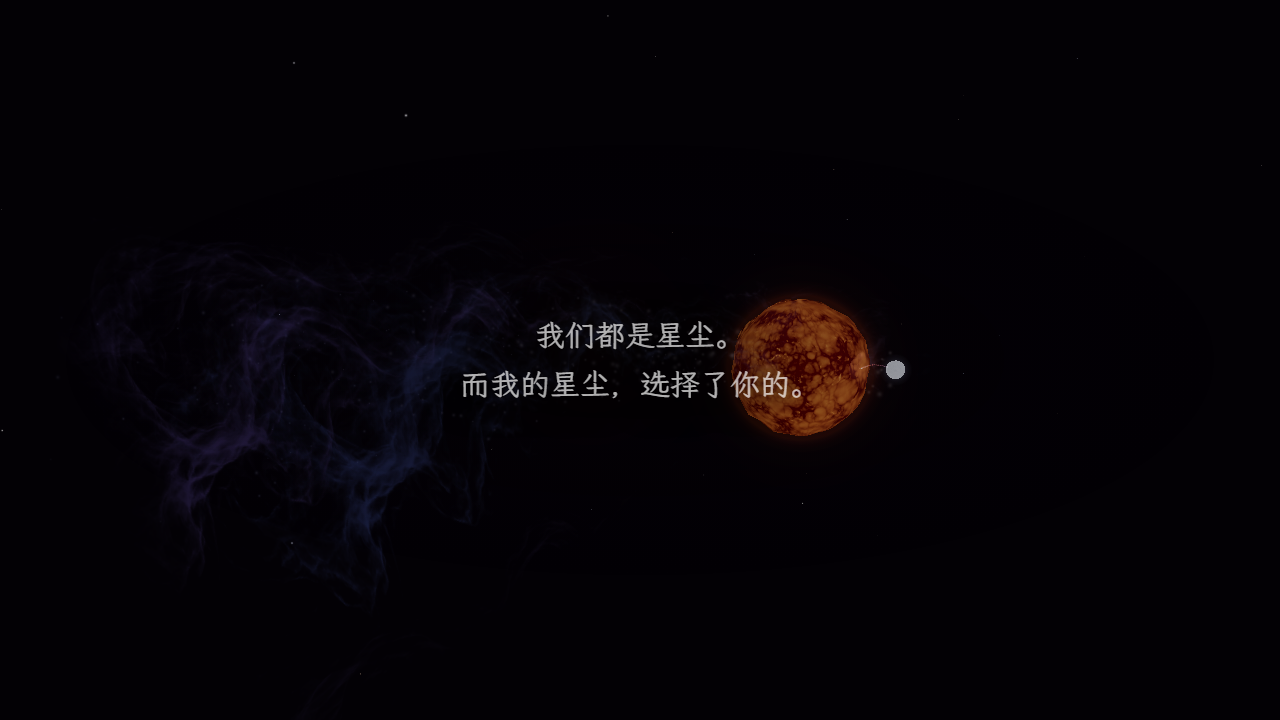
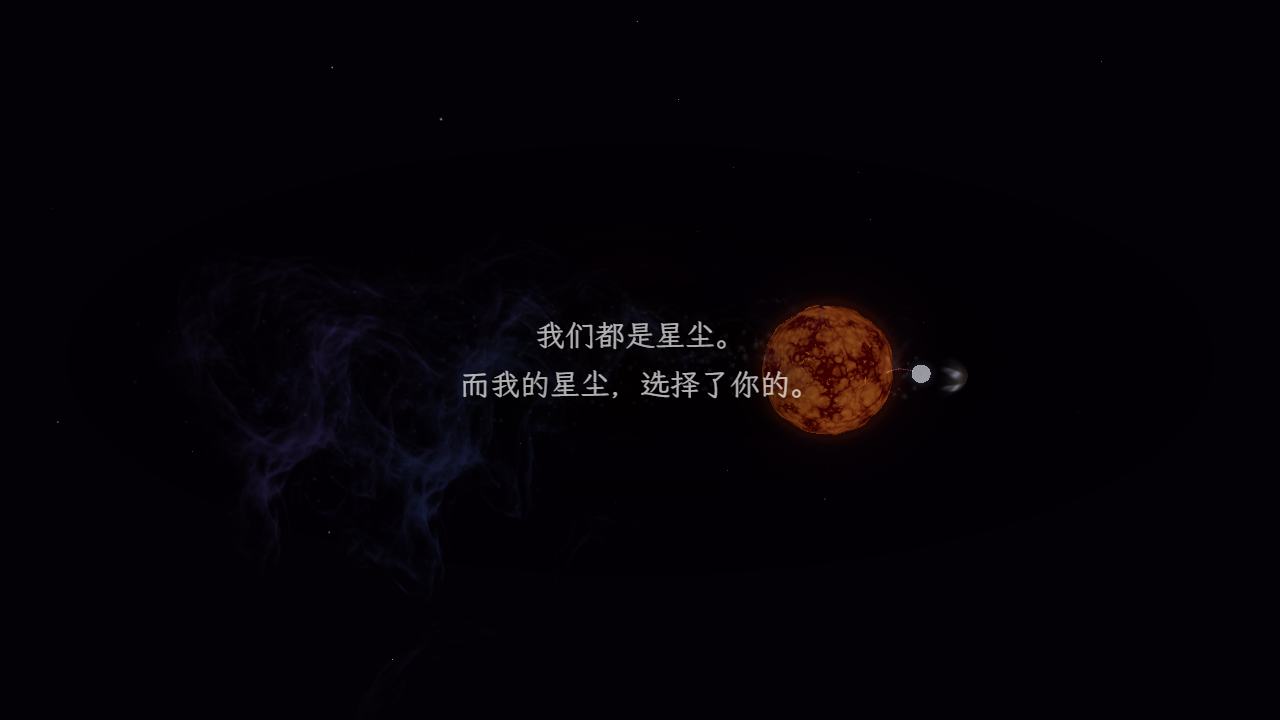
Deepen the closing look-at bias so the epilogue clears the red giant (#115)
At the real 60s idle the closing flight has landed and 共同前行 has carried
the pair ~2.4 units down the 去向, and against that settled composition the
wider English epilogue line sat on the giant's ×1.4 disc by ~14px. Deepen
CAMERA.CLOSING's look-at bias (-8 → -9.5, landscape only) so both languages'
text boxes clear the disc; portrait already separated on the y axis and keeps
its own pose.

tests/e2e/closing-framing.spec.ts re-verifies the clearance at the REAL idle
timing (no ?idle-* compression, 180s budget): the epilogue text box vs the
live data-mira-a-screen probe + screenDiscRadiusPercent disc, desktop
1440×900 and 390×844, both languages, with the pure seam cross-checked
against the probe. docs/evidence-115/ holds the before/after captures and
the measured numbers.

diff --git a/tests/e2e/closing-framing.spec.ts b/tests/e2e/closing-framing.spec.ts
@@ -1,0 +1,162 @@
+import { test, expect } from '@playwright/test';
+import type { Page } from '@playwright/test';
+import { CAMERA, PORTRAIT_CAMERA } from '../../src/constants/animation';
+import { PHYSICS, calculateOrbitalPosition } from '../../src/constants/physics';
+import { PORTRAIT_TILT, projectToScreenPercent, screenDiscRadiusPercent } from '../../src/lib/portraitFraming';
+import { sharedJourney } from '../../src/lib/sharedJourney';
+import { tailHeading } from '../../src/lib/tailPath';
+import { MID_DECLINE_EPOCH } from './helpers';
+
+// 结语不压红巨星 (#115): the epilogue re-verified at the REAL idle timing — no
+// ?idle-* overrides anywhere in these URLs. The compressed review round watched
+// 「…选择了你的。」 arrive with a 0.8s lead, but the closing flight's 8s budget
+// (TRANSITIONS.CLOSING_CAMERA) never compresses: the line showed while the camera
+// had barely left the explore framing. At the real 60s the flight has landed and
+// 共同前行 has carried the pair ~2.4 units down the 去向 — a different composition
+// than the one the review screenshot saw, so it is measured, not assumed.
+//
+// The standard is the one the 顶栏 / 终幕标题 clearance proofs already use: the
+// live screen probe (data-mira-a-screen) for the giant's centre, and the pure
+// seam's disc radius at ×1.4 of the photosphere (photosphere + dense atmosphere).
+// 字不压星, both languages, desktop and the 390×844 竖屏长卷.
+
+// The real rules from lib/viewerControl: 30s resume, 3s ramp, 60s epilogue, 8s
+// lead. The settle read below adds the line's 0.8s enter on top of the 60s.
+const EPILOGUE_WAIT_MS = 75_000;
+const SETTLE_MS = 2000;
+
+const HEADING = tailHeading(PHYSICS.TAIL.length);
+
+// The giant's journey-frame home once the ride has effectively arrived: 60s of
+// idle is four times the journey's 15s timescale, and travel(75) vs travel(150)
+// differ by well under a pixel on screen, so the converged phase is honest for
+// the disc's depth. The orbit's ±0.1 wobble rides on top as slack, sampled live.
+const RIDE = sharedJourney(75, HEADING);
+const HOME_ORBIT = calculateOrbitalPosition(0, PHYSICS.ORBIT).primary;
+const GIANT_JOURNEY_FRAME = [
+  RIDE.base[0] + RIDE.primary[0] + HOME_ORBIT[0],
+  RIDE.base[1] + RIDE.primary[1] + HOME_ORBIT[1],
+  RIDE.base[2] + RIDE.primary[2] + HOME_ORBIT[2],
+] as const;
+
+interface ClearanceRead {
+  // Worst sampled gap on each axis, px; negative = overlap depth.
+  gapX: number;
+  gapY: number;
+}
+
+async function readClearance(page: Page, language: 'ch' | 'en', screenshot: string): Promise<ClearanceRead> {
+  const canvas = page.locator('canvas');
+  const canvasBox = await canvas.boundingBox();
+  expect(canvasBox, 'canvas has a box').toBeTruthy();
+
+  // The settled framing, derived from the stored pose so a retune moves both
+  // together: the closing flight parks the camera exactly on CLOSING (fov fitting
+  // never moves the position).
+  const portrait = canvasBox.height > canvasBox.width;
+  const pose = (portrait ? PORTRAIT_CAMERA : CAMERA).CLOSING;
+  await expect(canvas).toHaveAttribute(
+    'data-camera-pose',
+    pose.position.map((v) => v.toFixed(1)).join(','),
+  );
+
+  // The pure seam's projection of the giant in that framing — cross-checked
+  // against the live probe below, the same parity the 竖屏长卷 specs pin.
+  const aspect = canvasBox.width / canvasBox.height;
+  const projected = projectToScreenPercent(GIANT_JOURNEY_FRAME, pose, aspect, portrait ? PORTRAIT_TILT : 0);
+  const discPx =
+    (screenDiscRadiusPercent(projected, PHYSICS.MIRA_A.radius * 1.4, pose, aspect) / 100) * canvasBox.height;
+
+  const text = await page.getByTestId('epilogue-text').boundingBox();
+  expect(text, 'epilogue text has a box').toBeTruthy();
+  // The language anchor is part of the read: the line's box is what may differ.
+  await expect(page.getByTestId('epilogue-line-1')).toHaveText(
+    language === 'ch' ? '我们都是星尘。' : 'We are made of starstuff.',
+  );
+
+  let worst: ClearanceRead = { gapX: Infinity, gapY: Infinity };
+  for (let i = 0; i < 6; i += 1) {
+    const raw = await canvas.getAttribute('data-mira-a-screen');
+    expect(raw, 'the giant\'s screen probe is written').toBeTruthy();
+    const [px, py] = raw!.split(',').map(Number);
+    // The live framing matches the seam within the wobble's reach (~±1% of screen).
+    expect(Math.abs(px - projected.x)).toBeLessThan(3);
+    expect(Math.abs(py - projected.y)).toBeLessThan(3);
+
+    const cx = canvasBox.x + (px / 100) * canvasBox.width;
+    const cy = canvasBox.y + (py / 100) * canvasBox.height;
+    const gapX = Math.max(text!.x - (cx + discPx), cx - discPx - (text!.x + text!.width));
+    const gapY = Math.max(text!.y - (cy + discPx), cy - discPx - (text!.y + text!.height));
+    console.log(
+      `[115] sample ${i}: live ${px.toFixed(2)},${py.toFixed(2)} seam ${projected.x.toFixed(2)},${projected.y.toFixed(2)} ` +
+        `cx ${cx.toFixed(0)} r ${discPx.toFixed(0)} gapX ${gapX.toFixed(0)} gapY ${gapY.toFixed(0)}`,
+    );
+    worst = { gapX: Math.min(worst.gapX, gapX), gapY: Math.min(worst.gapY, gapY) };
+    await page.waitForTimeout(400);
+  }
+
+  console.log(
+    `[115] ${portrait ? 'portrait' : 'desktop'} ${language}: text box ` +
+      `${text!.width.toFixed(0)}×${text!.height.toFixed(0)}, disc r ${discPx.toFixed(0)}px, ` +
+      `worst gaps x=${worst.gapX.toFixed(0)}px y=${worst.gapY.toFixed(0)}px`,
+  );
+  await page.screenshot({ path: screenshot });
+  return worst;
+}
+
+async function gotoIdleEpilogue(
+  page: Page,
+  viewport: { width: number; height: number },
+  language: 'ch' | 'en',
+  screenshot: string,
+): Promise<ClearanceRead> {
+  await page.setViewportSize(viewport);
+  await page.addInitScript(() => {
+    localStorage.setItem('mira:seen-opening', '1');
+    localStorage.setItem('mira:learned-controls', '1');
+  });
+  await page.goto(`/?quality=low&epoch=${MID_DECLINE_EPOCH}`);
+  await expect(page.getByTestId('explore-ui')).toBeVisible({ timeout: 15000 });
+  await expect(page.getByTestId('loading')).toHaveCount(0);
+  await expect(page.locator('canvas')).toHaveAttribute('data-camera-pose', /.+/, { timeout: 30000 });
+
+  // The language settles before the idle count starts: the toggle is a control
+  // press and restamps the shared clock, which is free now and a full 60s later.
+  if (language === 'en') {
+    await page.getByTestId('language-toggle').click();
+  }
+  // The idle count starts from a ready scene (same reason as viewer-control.spec:
+  // under software rendering, load time is not scaled and could eat the window).
+  await page.keyboard.press('Shift');
+
+  await expect(page.getByTestId('epilogue-text')).toBeVisible({ timeout: EPILOGUE_WAIT_MS });
+  // The line's 0.8s enter (结语浮现并落定), then the read is of the settled picture.
+  await page.waitForTimeout(SETTLE_MS);
+  return readClearance(page, language, screenshot);
+}
+
+test.describe('结语不压红巨星 (#115): real idle timing', () => {
+  // The real 60s idle plus load and settle: minutes, by design — this is the one
+  // spec that must not compress the wait it verifies.
+  test.setTimeout(180_000);
+
+  test('desktop 1440×900: the settled 结语 clears the red giant (zh)', async ({ page }) => {
+    const worst = await gotoIdleEpilogue(page, { width: 1440, height: 900 }, 'ch', 'docs/evidence-115/desktop-1440x900-zh.png');
+    expect(Math.max(worst.gapX, worst.gapY), 'text box and disc overlap').toBeGreaterThan(0);
+  });
+
+  test('desktop 1440×900: the settled 结语 clears the red giant (en)', async ({ page }) => {
+    const worst = await gotoIdleEpilogue(page, { width: 1440, height: 900 }, 'en', 'docs/evidence-115/desktop-1440x900-en.png');
+    expect(Math.max(worst.gapX, worst.gapY), 'text box and disc overlap').toBeGreaterThan(0);
+  });
+
+  test('390×844 竖屏: the settled 结语 clears the red giant (zh)', async ({ page }) => {
+    const worst = await gotoIdleEpilogue(page, { width: 390, height: 844 }, 'ch', 'docs/evidence-115/portrait-390x844-zh.png');
+    expect(Math.max(worst.gapX, worst.gapY), 'text box and disc overlap').toBeGreaterThan(0);
+  });
+
+  test('390×844 竖屏: the settled 结语 clears the red giant (en)', async ({ page }) => {
+    const worst = await gotoIdleEpilogue(page, { width: 390, height: 844 }, 'en', 'docs/evidence-115/portrait-390x844-en.png');
+    expect(Math.max(worst.gapX, worst.gapY), 'text box and disc overlap').toBeGreaterThan(0);
+  });
+});

diff --git a/src/constants/animation.ts b/src/constants/animation.ts
@@ -47,10 +47,14 @@ export const CAMERA = {
     fov: 45,
   },
   // Idle hold, not explore framing. The look-at biases left so the pair drifts
-  // right of the centered epilogue line instead of sitting under it.
+  // right of the centered epilogue line instead of sitting under it. #115 deepened
+  // the bias (-8 → -9.5): at the real 60s idle 共同前行 has effectively arrived
+  // (~2.4 units down the 去向), and against that settled composition the wider of
+  // the two epilogue lines (English) sat on the giant's ×1.4 disc by ~14px — the
+  // deeper bias keeps both languages' boxes clear of it.
   CLOSING: {
     position: [8, 10, 34] as [number, number, number],
-    lookAt: [-8, 1, 6] as [number, number, number],
+    lookAt: [-9.5, 1, 6] as [number, number, number],
     fov: 48,
   },
   // The pull-back's fov range is CLOSE.fov → FAR.fov; the opening timeline reads it

diff --git a/docs/evidence-115/README.md b/docs/evidence-115/README.md
@@ -1,0 +1,30 @@
+# #115 结语不压红巨星：真实空闲时长复核证据
+
+真实空闲时长（`lib/viewerControl` 默认值：30s resume / 3s ramp / 60s epilogue / 8s lead，全程不使用 `?idle-*` 压缩参数）下，结语落定后结语文字包围盒（`epilogue-text` 的 DOM 盒，含内边距）与红巨星屏幕投影（`data-mira-a-screen` 探针圆心 + `screenDiscRadiusPercent` 半径，`PHYSICS.MIRA_A.radius × 1.4`，与顶栏/终幕标题的 字不压星 证明同一标准）的实测间距。日期固定 `?epoch=2026-09-12`，`?quality=low`（软件渲染）。
+
+## 复核结论
+
+- 桌面 1440×900（zh）：不相撞，横向间距约 +20px——原来的 `CAMERA.CLOSING` 取景在该语言下勉强成立。
+- 桌面 1440×900（en）：**相撞，重叠 -14px**。复审截图的怀疑在真实时长下成立（但成因不同：压缩复审看到的是镜头未飞完时的擦边，真实时长是 共同前行 抵达后英文行更宽的包围盒压上 ×1.4 圆盘）。
+- 390×844 竖屏（zh/en）：不相撞，纵向间距 +121px / +104px，竖屏取景无需调整。
+
+## 取景调整
+
+`CAMERA.CLOSING.lookAt` x：`-8 → -9.5`（`src/constants/animation.ts`，仅横屏；竖屏 `PORTRAIT_CAMERA.CLOSING` 不变）。look-at 向左加深，双星整体向右移约 2.9% 屏宽（约 42px）。相机位置与 fov 不动。
+
+## 实测数据（tests/e2e/closing-framing.spec.ts 的控制台行）
+
+| 视口 | 语言 | 文字盒 | 圆盘半径 | 调整前 gapX/gapY | 调整后 gapX/gapY |
+| --- | --- | --- | --- | --- | --- |
+| 1440×900 | zh | 424×98 | 99px | +20 / 重叠 | **+62** / 重叠（纵向本就同带，靠横向分开） |
+| 1440×900 | en | 494×98 | 99px | **-14** / 重叠 | **+27** / 重叠（同上） |
+| 390×844 | zh | 304×65 | 48px | -79 / **+121** | -79 / **+121**（未改竖屏） |
+| 390×844 | en | 326×98 | 48px | -90 / **+104** | -90 / **+104**（未改竖屏） |
+
+gap 为最差采样值（6 次 × 400ms）；正值 = 该轴上分开，负值 = 该轴上重叠。分开的判据是两轴不同时为负。
+
+## 截图
+
+- `desktop-1440x900-zh.png` / `desktop-1440x900-en.png`：调整后落定画面。
+- `portrait-390x844-zh.png` / `portrait-390x844-en.png`：竖屏落定画面（取景未改）。
+- `*-before.png`：调整前同一测量的落定画面（desktop en 可见文字右端贴住巨星）。
